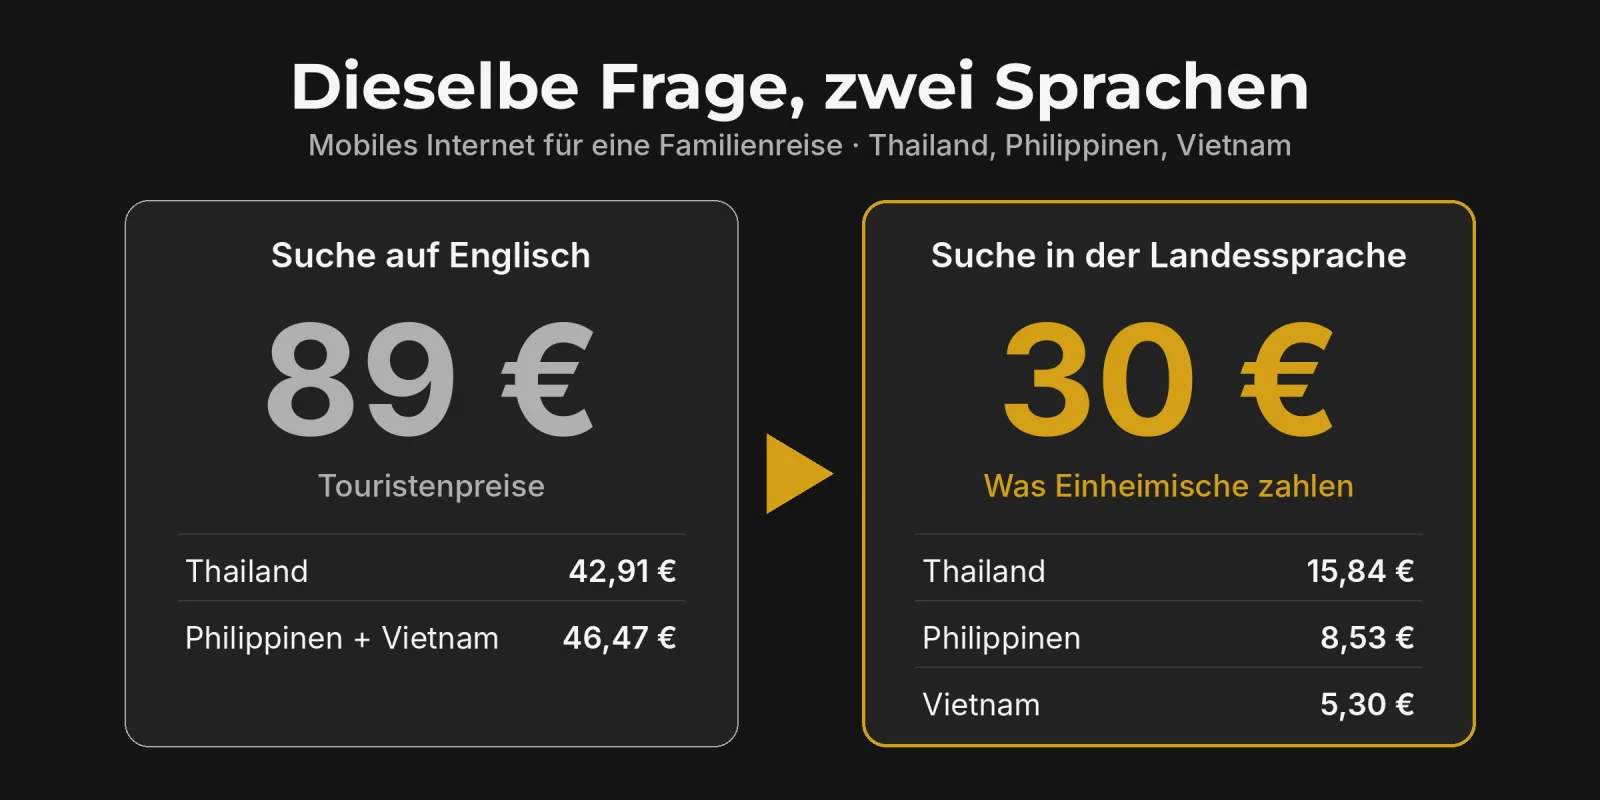
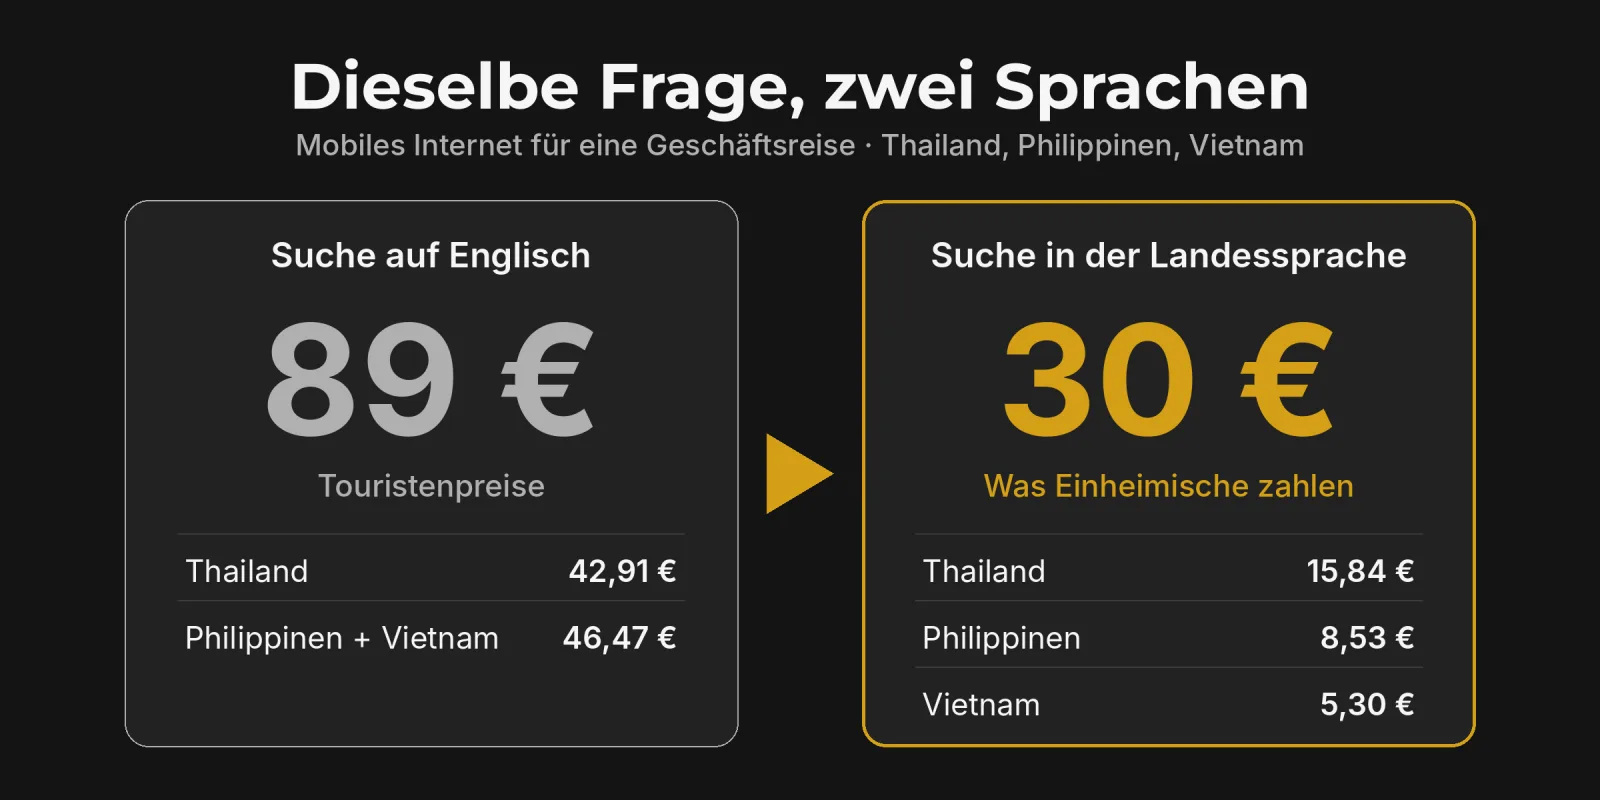
Blog ki-sucht-auf-englisch: Geschäftsreise statt Familienreise

Changed region(s): [[0.1875, 0.1562, 0.8125, 0.2188]]

diff --git a/blog/ki-sucht-auf-englisch/index.html b/blog/ki-sucht-auf-englisch/index.html
@@ -206,7 +206,7 @@
     <div class="wrap">
       <figure class="article-hero-fig"><img class="article-hero" src="/images/blog/ki-sucht-auf-englisch.webp" alt="Vergleichstabelle mit Touristenpreisen und Einheimischenpreisen für mobiles Internet in Thailand, auf den Philippinen und in Vietnam" width="1600" height="800" decoding="async" fetchpriority="high"><figcaption class="article-hero-caption">Dieselbe Frage, zwei Sprachen. Links die englische Runde, rechts die Suche in der Landessprache.</figcaption></figure>
       <div class="article-body">
-<p>Seit zwei Tagen plane ich eine große Familienreise, bei der meine Familie mehrere Länder in Südostasien besucht. Mein Vater ist nervös, meine Mutter sucht parallel selbst und schickt mir alle paar Minuten eine neue Frage. Auf dem Tisch stehen Wasser und Kaffee, auf dem Bildschirm laufen Rechercheagenten los und kommen wieder zurück.</p>
+<p>Seit zwei Tagen plane ich eine große Geschäftsreise nach Südostasien, und meine Familie begleitet mich eine Zeit lang. Mein Vater ist nervös, meine Mutter sucht parallel selbst und schickt mir alle paar Minuten eine neue Frage. Auf dem Tisch stehen Wasser und Kaffee, auf dem Bildschirm laufen Rechercheagenten los und kommen wieder zurück.</p>
 <p>Sonntag, 14:36, die nächste Frage: Wie kommen wir in Thailand, auf den Philippinen und in Vietnam günstig ins Internet, ohne dass meine österreichische Nummer für Kunden verstummt? Ich diktiere auf Slowakisch: „Pošli viacero agentov do vojny.“ Schick mehrere Agenten in den Krieg.</p>
 <p>Drei Agenten rücken aus, danach folgt eine zweite, tiefere Runde. Nach gut einer Stunde liegt das Ergebnis auf dem Tisch: eine saubere Tabelle mit Airalo, Nomad, Holafly und den Touristen-SIMs am Flughafen, Empfehlung rund 89 Euro.</p>
 <p>Ich lese sie und bin nicht zufrieden, denn jeder Preis darin ist für Touristen gemacht. Meine Antwort, aus dem Slowakischen übersetzt: „Das sind alles nur Preise für Touristen oder Westeuropäer. Such in den Sprachen dieser Länder, also auf Tagalog, Vietnamesisch und Thai. Nochmal.“</p>

diff --git a/blog/posts/de/2026-11-22-ki-sucht-auf-englisch.md b/blog/posts/de/2026-11-22-ki-sucht-auf-englisch.md
@@ -15,7 +15,7 @@ caption: Dieselbe Frage, zwei Sprachen. Links die englische Runde, rechts die Su
 **Kurz gesagt:** KI-Rechercheagenten lesen bei Preisfragen im Ausland zuerst englische Seiten, und die sind für Ausländer geschrieben und zeigen Ausländerpreise. Mit der Anweisung, in der Landessprache auf lokalen Seiten nach den Paketen der Einheimischen zu suchen, sank eine Empfehlung für mobiles Internet in Thailand, auf den Philippinen und in Vietnam von rund 89 auf rund 30 Euro. Den größten Unterschied brachte Thailand: 590 statt 1.599 Baht.
 
 
-Seit zwei Tagen plane ich eine große Familienreise, bei der meine Familie mehrere Länder in Südostasien besucht. Mein Vater ist nervös, meine Mutter sucht parallel selbst und schickt mir alle paar Minuten eine neue Frage. Auf dem Tisch stehen Wasser und Kaffee, auf dem Bildschirm laufen Rechercheagenten los und kommen wieder zurück.
+Seit zwei Tagen plane ich eine große Geschäftsreise nach Südostasien, und meine Familie begleitet mich eine Zeit lang. Mein Vater ist nervös, meine Mutter sucht parallel selbst und schickt mir alle paar Minuten eine neue Frage. Auf dem Tisch stehen Wasser und Kaffee, auf dem Bildschirm laufen Rechercheagenten los und kommen wieder zurück.
 
 Sonntag, 14:36, die nächste Frage: Wie kommen wir in Thailand, auf den Philippinen und in Vietnam günstig ins Internet, ohne dass meine österreichische Nummer für Kunden verstummt? Ich diktiere auf Slowakisch: „Pošli viacero agentov do vojny.“ Schick mehrere Agenten in den Krieg.
 
